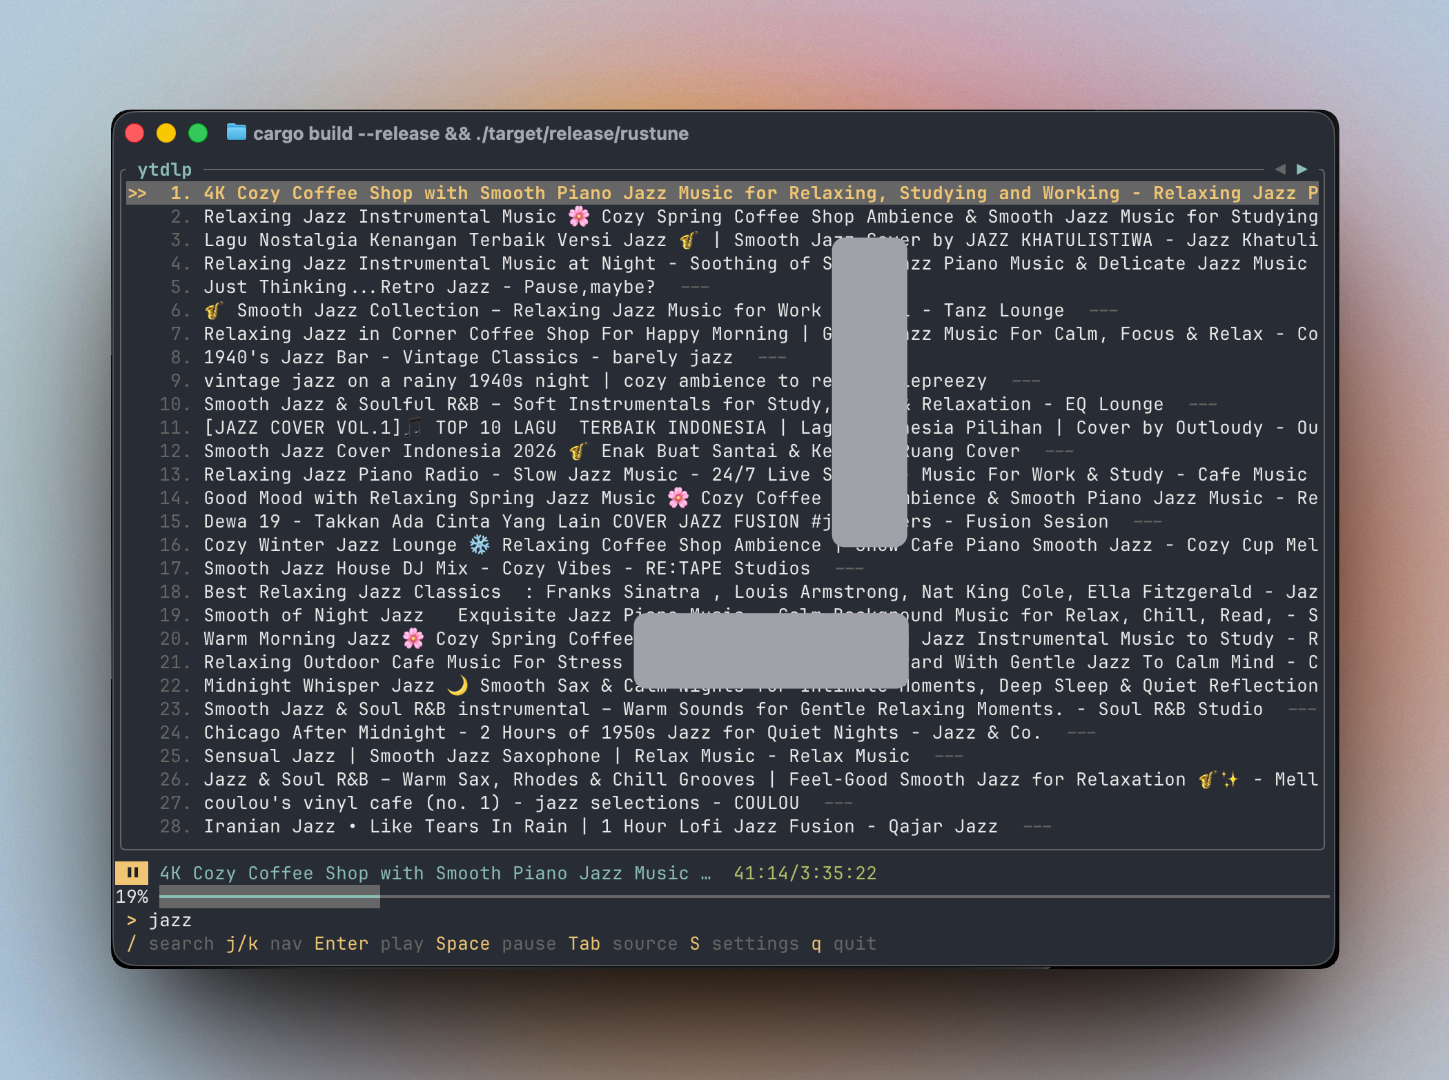
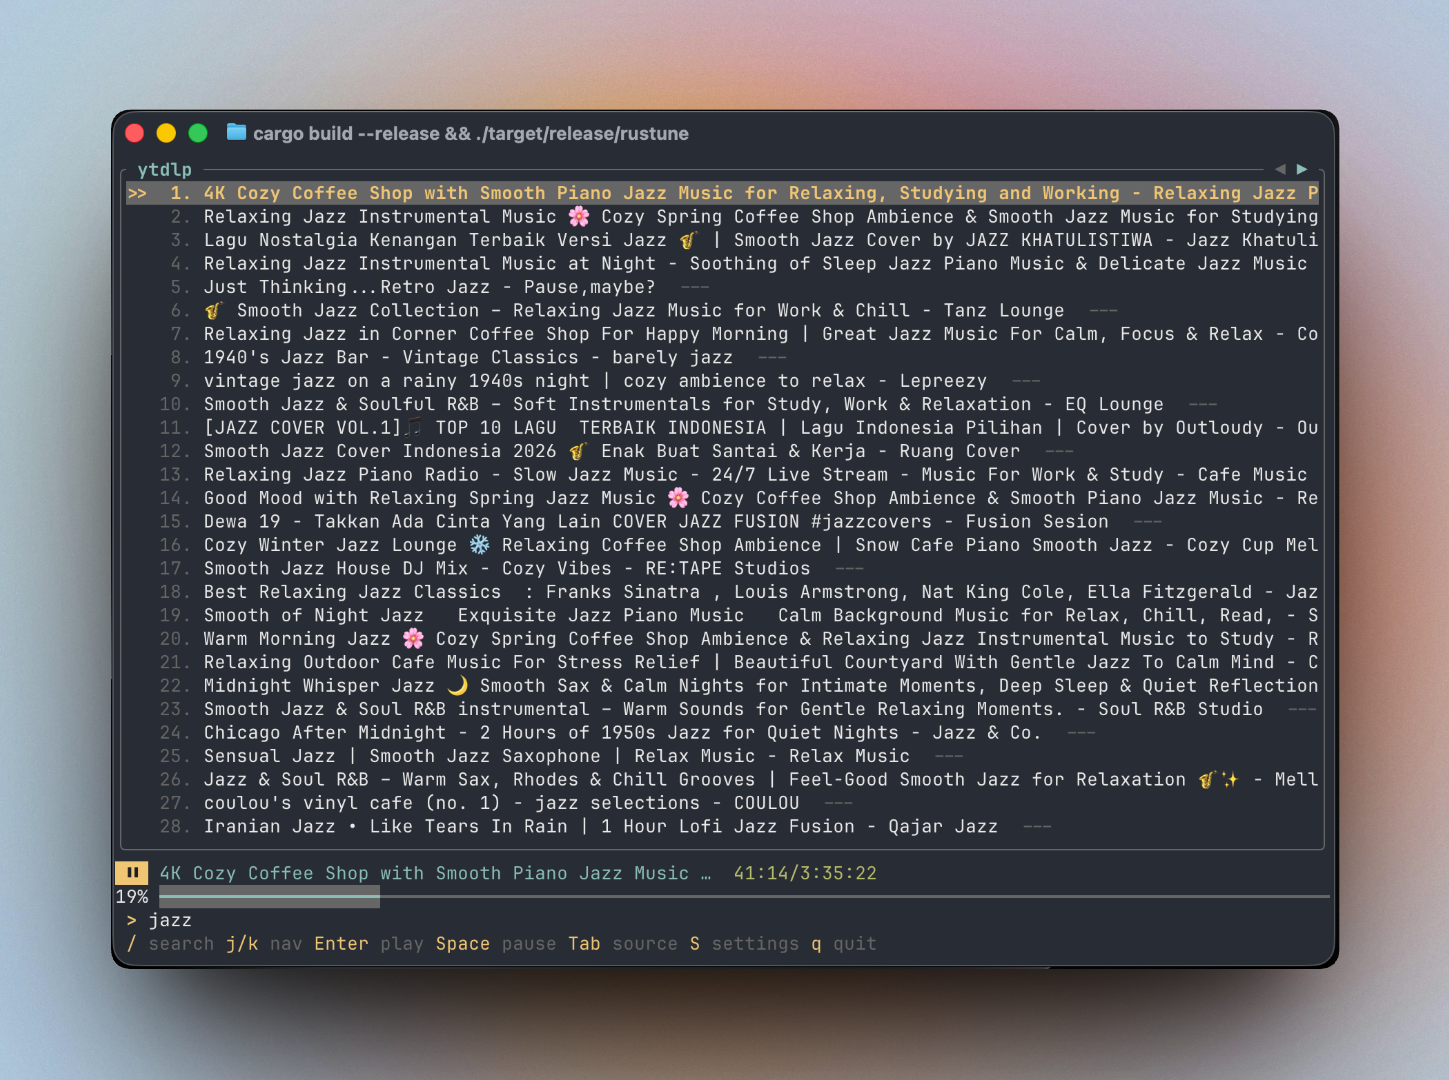
Add project scaffolding files and update screenshot
Include turbo monorepo boilerplate (server, shared packages),
gitignore files, and updated app screenshot.

Changed region(s): [[0.559, 0.2139, 0.6522, 0.5194], [0.4348, 0.55, 0.6522, 0.6417]]

diff --git a/server/src/index.ts b/server/src/index.ts
@@ -1,0 +1,12 @@
+import { Hono } from "hono";
+import { serveStatic } from "hono/bun";
+
+const app = new Hono();
+
+// Serve static assets from client/dist
+app.use("/*", serveStatic({ root: "./client/dist" }));
+
+// SPA fallback — serve index.html for all non-API routes
+app.get("*", serveStatic({ root: "./client/dist", path: "index.html" }));
+
+export default app;

diff --git a/shared/src/types/index.ts b/shared/src/types/index.ts
@@ -1,0 +1,4 @@
+export type ApiResponse = {
+  message: string;
+  success: true;
+}

diff --git a/shared/src/index.ts b/shared/src/index.ts
@@ -1,0 +1,1 @@
+export * from "./types"

diff --git a/client/README.md b/client/README.md
@@ -1,0 +1,54 @@
+# React + TypeScript + Vite
+
+This template provides a minimal setup to get React working in Vite with HMR and some ESLint rules.
+
+Currently, two official plugins are available:
+
+- [@vitejs/plugin-react](https://github.com/vitejs/vite-plugin-react/blob/main/packages/plugin-react) uses [Babel](https://babeljs.io/) for Fast Refresh
+- [@vitejs/plugin-react-swc](https://github.com/vitejs/vite-plugin-react/blob/main/packages/plugin-react-swc) uses [SWC](https://swc.rs/) for Fast Refresh
+
+## Expanding the ESLint configuration
+
+If you are developing a production application, we recommend updating the configuration to enable type-aware lint rules:
+
+```js
+export default tseslint.config({
+  extends: [
+    // Remove ...tseslint.configs.recommended and replace with this
+    ...tseslint.configs.recommendedTypeChecked,
+    // Alternatively, use this for stricter rules
+    ...tseslint.configs.strictTypeChecked,
+    // Optionally, add this for stylistic rules
+    ...tseslint.configs.stylisticTypeChecked,
+  ],
+  languageOptions: {
+    // other options...
+    parserOptions: {
+      project: ['./tsconfig.node.json', './tsconfig.app.json'],
+      tsconfigRootDir: import.meta.dirname,
+    },
+  },
+})
+```
+
+You can also install [eslint-plugin-react-x](https://github.com/Rel1cx/eslint-react/tree/main/packages/plugins/eslint-plugin-react-x) and [eslint-plugin-react-dom](https://github.com/Rel1cx/eslint-react/tree/main/packages/plugins/eslint-plugin-react-dom) for React-specific lint rules:
+
+```js
+// eslint.config.js
+import reactX from 'eslint-plugin-react-x'
+import reactDom from 'eslint-plugin-react-dom'
+
+export default tseslint.config({
+  plugins: {
+    // Add the react-x and react-dom plugins
+    'react-x': reactX,
+    'react-dom': reactDom,
+  },
+  rules: {
+    // other rules...
+    // Enable its recommended typescript rules
+    ...reactX.configs['recommended-typescript'].rules,
+    ...reactDom.configs.recommended.rules,
+  },
+})
+```

diff --git a/server/README.md b/server/README.md
@@ -1,0 +1,11 @@
+To install dependencies:
+```sh
+bun install
+```
+
+To run:
+```sh
+bun run dev
+```
+
+open http://localhost:3000
